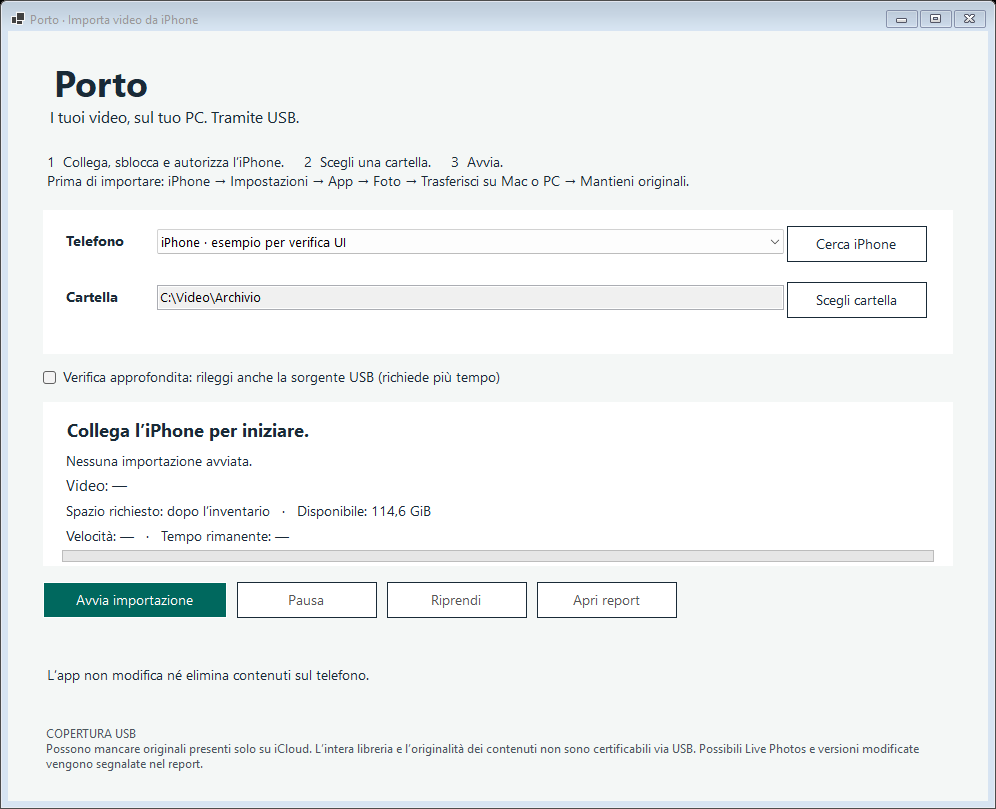
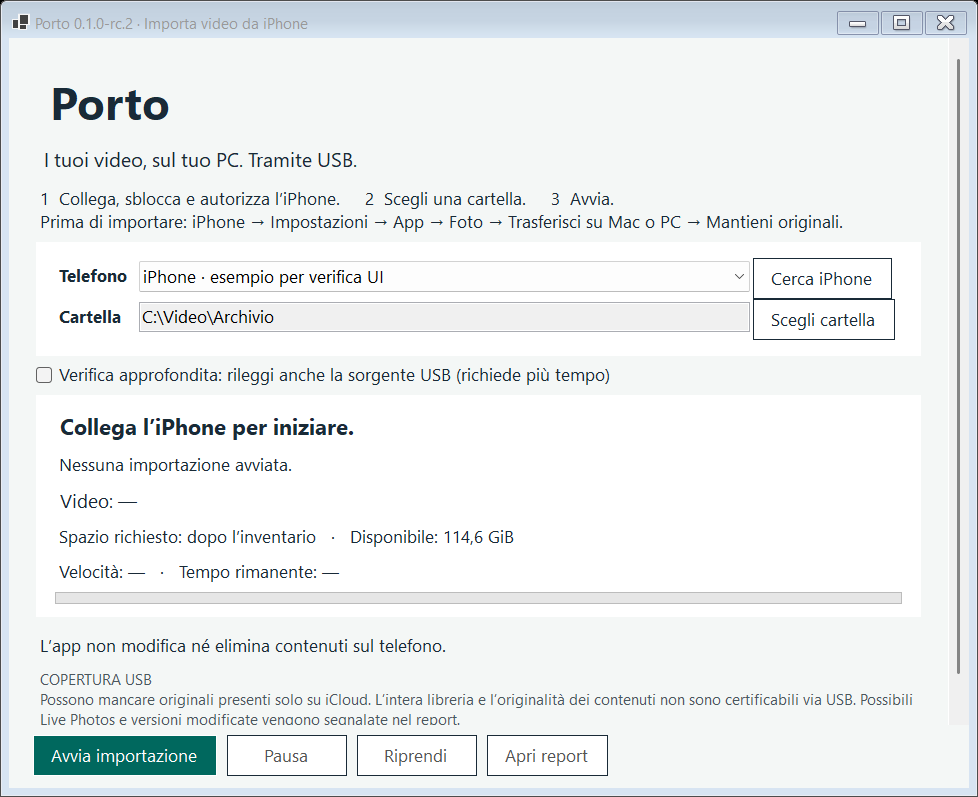
docs: publish rc2 behavior verification and honest hardware limits

diff --git a/docs/index.html b/docs/index.html
@@ -14,19 +14,19 @@
 <header><a class="brand" href="#" aria-label="Porto, inizio pagina"><svg viewBox="0 0 32 38" fill="none" aria-hidden="true"><path d="M5 4v25h22V4M16 0v22m-6-6 6 6 6-6" stroke="#00685e" stroke-width="3.5" stroke-linecap="round" stroke-linejoin="round"/></svg>Porto</a><nav aria-label="Navigazione"><a href="#come">Come si usa</a><a href="https://github.com/9gabri/porto-iphone-usb">Codice sorgente</a></nav></header>
 <main id="contenuto">
 <section class="hero" aria-labelledby="titolo"><div><h1 id="titolo">Dall’iPhone al PC.<br>Con un cavo.</h1><p class="intro">Importa i video accessibili via USB in una cartella Windows. Una sola importazione, senza selezionare lotti.</p>
-<a class="download" href="https://github.com/9gabri/porto-iphone-usb/releases/download/v0.1.0-rc.1/Porto-0.1.0-rc.1-win-x64.zip"><svg viewBox="0 0 24 24" fill="none" stroke="currentColor" stroke-width="2" aria-hidden="true"><path d="M12 3v12m-5-5 5 5 5-5M4 16v5h16v-5"/></svg>Scarica Porto per Windows</a>
-<p class="version">Versione candidata 0.1.0-rc.1 per Windows 11 x64.<br>Archivio ZIP con runtime incluso. Gratuito, senza account nell’app.</p>
-<p class="meta"><a href="https://github.com/9gabri/porto-iphone-usb/releases/download/v0.1.0-rc.1/SHA256SUMS.txt">Checksum SHA-256</a> &nbsp; / &nbsp; <a href="https://github.com/9gabri/porto-iphone-usb/releases/tag/v0.1.0-rc.1">Note della release</a></p></div>
+<a class="download" href="https://github.com/9gabri/porto-iphone-usb/releases/download/v0.1.0-rc.2/Porto-0.1.0-rc.2-win-x64.zip"><svg viewBox="0 0 24 24" fill="none" stroke="currentColor" stroke-width="2" aria-hidden="true"><path d="M12 3v12m-5-5 5 5 5-5M4 16v5h16v-5"/></svg>Scarica Porto per Windows</a>
+<p class="version">Versione candidata 0.1.0-rc.2 per Windows 11 x64.<br>Archivio ZIP con runtime incluso. Gratuito, senza account nell’app.</p>
+<p class="meta"><a href="https://github.com/9gabri/porto-iphone-usb/releases/download/v0.1.0-rc.2/SHA256SUMS.txt">Checksum SHA-256</a> &nbsp; / &nbsp; <a href="https://github.com/9gabri/porto-iphone-usb/releases/tag/v0.1.0-rc.2">Note della release</a></p></div>
 <figure class="preview"><img src="app-preview.png" width="996" height="809" alt="Finestra italiana di Porto con scelta telefono e cartella, avanzamento e pulsanti Avvia, Pausa e Riprendi"><figcaption>L’app Windows compilata, aperta in modalità di verifica. Dati illustrativi: nessun telefono è stato collegato durante i test.</figcaption></figure></section>
 <aside class="notice"><p><strong>Candidata da provare: hardware iPhone non ancora validato.</strong> Il collegamento USB è implementato tramite WPD, ma non sono stati provati iPhone reali, versioni iOS o trasferimenti fisici da 250 GB. Porto non certifica che l’intera libreria sia stata salvata.</p></aside>
 <section class="guide" id="come"><div><h2>Tre passaggi<br>per iniziare.</h2><p class="small">Non servono strumenti di sviluppo. Il sito presenta l’app; il trasferimento avviene sul tuo PC.</p></div><ol><li><strong>Estrai lo ZIP e apri Porto.exe.</strong>Tieni tutti i file estratti nella stessa cartella. L’app non richiede privilegi amministrativi.</li><li><strong>Collega, sblocca e autorizza l’iPhone.</strong>Verifica “Mantieni originali” in Impostazioni → App → Foto → Trasferisci su Mac o PC. Se mancano i componenti USB, segui le <a href="https://support.apple.com/en-us/120267">istruzioni ufficiali Apple</a> per Dispositivi Apple.</li><li><strong>Scegli una cartella NTFS e premi Avvia importazione.</strong>Prima viene letto l’inventario, poi parte la copia. Puoi mettere in pausa e riprendere. Alla fine trovi il report nella cartella scelta.</li></ol></section>
-<section class="details"><div><h2>Una copia controllata.</h2><ul><li>Byte ricevuti conservati senza conversioni o ricompressioni.</li><li>SHA-256 confrontato con una rilettura del file salvato.</li><li>Verifica approfondita opzionale tramite seconda lettura USB.</li><li>Ripresa con confronto del contenuto, preservando i duplicati distinti dell’inventario.</li><li>Nessuna modifica o cancellazione sul telefono e nessuna sovrascrittura di video esistenti.</li></ul></div><div><h2>Un report sincero.</h2><p>Importati, già presenti verificati, esclusi, ambigui, mancanti noti ed errori. Disponibile come testo e JSON, tutto locale.</p><p>“Completati tutti i video individuati tramite USB” riguarda l’inventario accessibile. <strong>La copertura dell’intera libreria iCloud non è verificabile.</strong></p></div></section>
+<section class="details"><div><h2>Una copia controllata.</h2><ul><li>Byte ricevuti conservati senza conversioni o ricompressioni.</li><li>SHA-256 confrontato con una rilettura del file salvato.</li><li>Verifica approfondita opzionale tramite seconda lettura USB.</li><li>Ripresa con confronto del contenuto, preservando i duplicati distinti dell’inventario.</li><li>Nessuna modifica o cancellazione sul telefono e nessuna sovrascrittura di video esistenti.</li></ul></div><div><h2>Un report sincero.</h2><p>Importati, già presenti verificati, esclusi, ambigui, mancanti noti, errori e video ancora da completare. Un controllo finale verifica che l’inventario USB sia rimasto stabile. Disponibile come testo e JSON, tutto locale.</p><p>“Completati tutti i video individuati tramite USB” riguarda l’inventario accessibile. <strong>La copertura dell’intera libreria iCloud non è verificabile.</strong></p></div></section>
 <section aria-label="Limiti e domande frequenti">
 <details open><summary>Originali, Live Photos e video modificati</summary><p>“Mantieni originali” evita le conversioni di formato. La verifica dei byte non certifica che la risorsa USB sia l’originale Foto non modificato. Fotografie escluse; possibili componenti Live Photo e varianti riconoscibili come modificate vengono segnalate come ambigue e non pubblicate tra i video autonomi. Senza metadati distintivi non è possibile riconoscere ogni caso.</p></details>
 <details><summary>iCloud, Internet e privacy</summary><p>Porto funziona offline, non chiede Apple ID e non carica video online. Non scarica originali da iCloud né cambia impostazioni. Un originale solo cloud può non comparire nell’inventario, e il numero degli elementi mancanti potrebbe non essere disponibile.</p></details>
 <details><summary>Compatibilità, firma e componenti necessari</summary><p>Destinazione Windows 11 x64 e cartella locale NTFS. Windows ARM, exFAT, rete e percorsi reindirizzati non supportati in questa candidata. Eventuali componenti Apple vanno ottenuti dalle fonti ufficiali. Eseguibile non firmato: le protezioni Windows possono mostrare avvisi o impedirne l’avvio. Non disattivare antivirus, SmartScreen o altre protezioni.</p></details>
-<details><summary>Spazio, ripresa e file temporanei</summary><p>Le copie interrotte vengono ricominciate dall’inizio e i relativi temporanei sono conservati, quindi possono richiedere spazio aggiuntivo. Gli elementi ambigui già verificati vengono riutilizzati. Conserva la cartella .porto insieme ai video: contiene il catalogo necessario per evitare duplicati alle riprese. Usa una destinazione distinta per ogni libreria/telefono.</p></details>
+<details><summary>Spazio, ripresa e file temporanei</summary><p>I temporanei associabili vengono confrontati con la sorgente e completati aggiungendo solo la parte mancante. Quelli divergenti o non associabili sono conservati e possono richiedere spazio aggiuntivo. Fino a tre passaggi automatici con attese cancellabili; gli errori permanenti restano nel report. Gli elementi ambigui già verificati vengono riutilizzati. Conserva la cartella .porto insieme ai video: contiene il catalogo necessario per evitare duplicati alle riprese. Usa una destinazione distinta per ogni libreria/telefono.</p></details>
 </section>
-<section class="test-note" aria-labelledby="test"><h2 id="test">Che cosa è stato verificato</h2><p>Compilazione e avvio UI su Windows 11 x64; copie sintetiche con corruzione, disconnessione, collisioni, arresti nei passaggi critici e recupero. Flusso sintetico oltre 4 GiB effettivamente letto e sottoposto a hash; inventario di 50.000 elementi con 250 GB logici, senza scrivere quel volume su disco.</p><p class="small"><a href="https://github.com/9gabri/porto-iphone-usb/blob/main/docs/TESTS.md">Risultati e limiti delle prove</a> · <a href="https://github.com/9gabri/porto-iphone-usb/blob/main/THIRD-PARTY-NOTICES.md">Licenze e dipendenze</a></p></section>
+<section class="test-note" aria-labelledby="test"><h2 id="test">Che cosa è stato verificato</h2><p>Compilazione e avvio UI su Windows 11 x64; copie sintetiche con corruzione, disconnessione, collisioni, arresti nei passaggi critici e recupero. 74 casi sintetici verificati. Inventario di 50.000 elementi, 2.000 copie effettive con secondo passaggio senza duplicati e un file sintetico oltre 4 GB scritto e riletto su NTFS. Simulazione di 250 GB logici, senza scrivere quel volume su disco.</p><p class="small"><a href="https://github.com/9gabri/porto-iphone-usb/blob/main/docs/TESTS.md">Risultati e limiti delle prove</a> · <a href="https://github.com/9gabri/porto-iphone-usb/blob/main/THIRD-PARTY-NOTICES.md">Licenze e dipendenze</a></p></section>
 </main><footer>Porto è un progetto indipendente, non affiliato ad Apple o Microsoft. Codice MIT. Nessun tracker aggiunto a questa pagina; l’hosting segue le informative di GitHub Pages.</footer>
 </body></html>

diff --git a/docs/TESTS.md b/docs/TESTS.md
@@ -1,40 +1,81 @@
-# Prove della candidata 0.1.0-rc.1
+# Prove della candidata 0.1.0-rc.2
 
-Ambiente: Windows 11 x64, build OS 26200; .NET SDK 10.0.403, runtime Microsoft 10.0.14; destinazione sintetica locale NTFS. Nessun iPhone è stato cercato, aperto o usato durante lo sviluppo. Nessun file personale è stato letto. Data: 30 ottobre 2026.
+Windows 11 x64, .NET SDK 10.0.403 e runtime Microsoft 10.0.14; destinazioni locali NTFS.
+Dati generati nel progetto. Nessun iPhone enumerato, aperto o letto durante lo sviluppo.
+Nessun video o dato personale incluso nei test.
 
-## Prove automatiche
+## Risultati
 
-**Esito finale: 44/44 test superati**, più avvio UI e smoke del worker sull'eseguibile self-contained. I test includono anche riparazioni interrotte con perdita o corruzione del nuovo temporaneo, senza duplicare i mancanti logici.
+**74 casi verificati: 70 ordinari e 4 estesi**, eseguiti in passaggi separati.
+La suite estesa iniziale era 72/72; aggiunti due casi di crash con inventario vuoto,
+sono stati rieseguiti tutti i 70 ordinari dopo l'ultima correzione del protocollo.
+Le quattro prove di scala esercitano il medesimo core. Log in test-results.txt.
+Comando riproducibile: scripts/dev.ps1 test -Large.
 
-La suite console non richiede pacchetti di test esterni. `scripts/dev.ps1 test` compila ed esegue i test ordinari. `dotnet run --project tests/Porto.Tests -c Release -- --large` aggiunge le prove di scala. Esito dettagliato in [test-results.txt](test-results.txt).
+Coperti: SHA-256 e rilettura locale, troncamento, dimensione incoerente, corruzione,
+seconda lettura divergente, collisioni, percorsi ostili, lock concorrenti, foto
+abbinate/Live Photos ambigue, copie mancanti o alterate, disco pieno, inventari
+parziali, errori isolati, disconnessioni, tentativi limitati, cancellazione,
+inventario finale cambiato, ID variabili e molteplicità degli elementi byte-identici.
 
-Coperti: SHA-256 e rilettura, sorgente troncata/estesa, cancellazione, SQLite reale, cambiamento degli ID, molteplicità di tre video identici, nomi collisionanti, copie rimosse o corrotte, seconda lettura USB differente, spazio iniziale insufficiente e riempimento durante copia, disconnessione/riconnessione, percorsi ostili, lock concorrente, Live Photo/varianti ambigue, foto abbinate, MOV/MP4/M4V, finta estensione senza video, inventario incompleto e mancante offline sintetico.
+Il test di molteplicità riproduce una pausa dopo che B ha reclamato la copia di A,
+quando A è ancora nell'inventario corrente. Un successivo elenco ridotto non può
+cancellare l'obbligo di conservare la seconda copia.
 
-Arresti **reali del processo di test** tramite Environment.Exit prima/dopo sei confini: intento, flush, verifica, Ready, rinomina, Complete. Nuovo processo recupera senza duplicati definitivi. Inoltre: collisione del finale dopo Ready, temporaneo danneggiato, quarantena riutilizzata senza creare nuovi `.part`, inventario ripetitivo/fallito limitato.
+## Arresti e recupero
 
-Worker: processi sintetici bloccati prima della risposta e a metà payload; timeout e cancellazione devono terminarli. COM smoke: creazione degli oggetti WPD, scambio proprietà locali stringa, GUID e UInt64 oltre 4 GiB. **Questa prova non chiama GetDevices o Open** e non dimostra una connessione a iPhone.
+Terminazioni reali di processi sintetici con Exit(77) ai confini intento, flush,
+verifica, Ready, rename e Complete. Riparazioni interrotte e collisioni preservano
+i file esistenti. Dopo un crash, un inventario vuoto conserva i lavori pendenti,
+anche se il file era pubblicato ma il risultato non ancora registrato: segnalazione
+conservativa, non falso completamento.
 
-## Dimensioni effettive e simulate
+Ripresa provata con letture corte/disallineate, divergenza all'ultimo byte, sorgente
+più corta, cancellazione prima dell'append, interruzioni ripetute e spazio sufficiente
+solo al suffisso. File estranei intatti. Nessuna cancellazione in produzione.
 
-| Prova | Cosa viene eseguito | Cosa non dimostra |
+## USB senza dispositivi reali
+
+- Vtable native sintetiche: vero percorso GetDevices, S_OK, S_FALSE, errore dopo
+  allocazione, deallocazione e stringhe senza terminatore nel testo UI.
+- Inventario nativo simulato: heartbeat tra metadati e conclusione al batch S_FALSE.
+- Processi figli reali: timeout, payload parziale, cancellazione, heartbeat oltre
+  il timeout, JSON nullo/malformato, frame inattesi e progressi corrotti.
+- Il test dei progressi malformati invia poi un risultato valido: deve fallire
+  immediatamente, non passare accidentalmente alla chiusura del processo.
+- COM smoke: registrazione, GUID, stringhe e UInt64 oltre 4 GB. Gli smoke del
+  pacchetto non invocano GetDevices/Open su hardware.
+
+## Prove di scala
+
+| Prova | Operazione reale | Limite |
 |---|---|---|
-| Copie ordinarie | File sintetici piccoli realmente scritti, riletti e pubblicati su NTFS | Video reali, decodifica o USB fisica |
-| Flusso oltre 4 GiB | 4.294.967.313 byte generati, letti e sottoposti a SHA-256; output Stream.Null | Un file oltre 4 GiB scritto su disco o trasferito da iPhone |
-| 50.000 elementi, 250 GB | Inventario completo sintetico serializzato, classificazione e controllo di capacità; payload non scritto | Trasferimento reale di 250 GB |
-| Crash recovery | Terminazione processo ai confini e riavvio reale | Perdita di alimentazione, guasto controller/disco o corruzione del filesystem |
+| 4.294.967.313 byte | Generati, letti e sottoposti a SHA-256 verso Stream.Null | Nessun USB/disco |
+| 50.000 video, 250 GB logici | Inventario, pendenti, capacità insufficiente, report | Nessun payload da 250 GB scritto |
+| 50.000 elementi, 2.000 video | 2.000 file scritti/verificati, 48.000 foto escluse; secondo passaggio senza copie aggiuntive | File piccoli sintetici |
+| 4.294.971.392 byte su NTFS | Contenitore esteso, copia, flush, hash indipendente, parser e pubblicazione | Nessun codec, video reale o USB |
 
-I tempi e il working set osservati sono nel log; non sono benchmark USB. Nella prima prova estesa il flusso oltre 4 GiB ha richiesto circa 2,7 secondi con working set 54 MiB; l'inventario circa 0,13 secondi con working set 69 MiB. Sono misure su questo ambiente, non promesse di prestazioni.
+Misure: flusso virtuale 2,25 s; inventario logico 1,03 s; 2.000 copie e secondo
+passaggio 214,05 s; file NTFS oltre 4 GB 8,72 s. Working set campionato: 79, 210,
+158 e 110 MiB, non una misura del picco. Non sono benchmark USB. Il solo payload
+sintetico da 4 GB viene rimosso dopo la verifica, in una destinazione nuova dedicata.
 
-## Revisione e artefatto
+## Revisione, mutazione e interfaccia
 
-Revisione indipendente di correttezza/sicurezza del core e dell'ABI USB, confrontata con gli header Microsoft. Corrette le criticità emerse: errori InvalidDataException non classificati, recovery bloccata su collisione/corruzione, falsi positivi Live Photo, riscrittura quadratica dei report, duplicazione dei temporanei ambigui e limite inventario aggirabile. Il report ora persiste risultati incrementali.
+Due revisioni indipendenti: core e USB, seguite da correzioni e seconda revisione.
+Dettagli in REVIEW-RC2.md. Mutazione temporanea del confronto del prefisso: la
+regressione fallisce; codice ripristinato prima della build finale. Nessun codice
+mutato distribuito.
 
-Prova di mutazione: inversione temporanea del confronto d'integrità, suite attesa in errore, poi ripristino del codice e nuova esecuzione corretta. Nessun codice mutato distribuito.
+Pacchetto autonomo avviato in modalità UI senza USB; ispezione visiva normale e
+ridotta con messaggio lungo di riconnessione. Azioni ancorate al fondo e controllo
+automatico dei loro limiti visibili. Non certifica ogni risoluzione/DPI o tutte
+le interazioni manuali.
 
-Avvio effettivo della UI compilata in `--ui-smoke` senza USB e ispezione della sua immagine. Avvio della distribuzione self-contained con runtime di sistema .NET 10 non installato. Smoke `--interop-smoke` e `--worker-smoke` sul vero eseguibile verificano anche l'avvio del processo figlio, il protocollo e l'appartamento COM MTA, senza enumerazione dispositivi. Queste prove hanno rilevato e fatto correggere una inizializzazione COM STA/MTA incompatibile nell'entry point. La prova UI verifica l'avvio, non un trasferimento fisico né tutte le interazioni tramite mouse.
+## Da verificare con hardware
 
-L'archivio pubblico viene riscaricato e confrontato tramite SHA-256 con l'archivio locale. Questo verifica la corrispondenza dell'artefatto, non sostituisce una firma Authenticode. L'eseguibile Porto è non firmato.
-
-## Compatibilità non verificata
-
-iPhone 16/17, qualsiasi versione iOS, driver Apple effettivi, velocità dei cavi USB, originali solo iCloud, comportamento delle risorse modificate, riconoscimento completo di Live Photos. Nessuna verifica Windows ARM, exFAT o cartelle di rete (rifiutati nella candidata). Nessun trasferimento fisico da 250 GB. Il sito e l'app riportano questi limiti prima/durante l'uso.
+Riconoscimento di uno specifico iPhone/iOS, driver Apple, cavo, autorizzazione,
+risorse effettive e velocità USB. La causa della lista vuota della prima prova
+non è dimostrata. Nessun trasferimento reale da 250 GB. Copertura iCloud,
+originalità Foto e Live Photos prive di indizi non certificabili. Rete, exFAT
+e ARM restano rifiutati. Eseguibile non firmato.

diff --git a/README.md b/README.md
@@ -1,8 +1,8 @@
 # Porto
 
-App locale italiana per importare via USB i video accessibili di un iPhone su Windows 11 x64. Versione **0.1.0-rc.1**, candidata sperimentale: il collegamento WPD è reale, ma **nessun iPhone fisico è stato utilizzato per validarla**.
+App locale italiana per importare via USB i video accessibili di un iPhone su Windows 11 x64. Versione **0.1.0-rc.2**, candidata sperimentale: il collegamento WPD è reale, ma **nessun iPhone fisico è stato utilizzato per validarla**.
 
-[Pagina e istruzioni](https://9gabri.github.io/porto-iphone-usb/) · [Download Windows](https://github.com/9gabri/porto-iphone-usb/releases/download/v0.1.0-rc.1/Porto-0.1.0-rc.1-win-x64.zip) · [Checksum SHA-256](https://github.com/9gabri/porto-iphone-usb/releases/download/v0.1.0-rc.1/SHA256SUMS.txt)
+[Pagina e istruzioni](https://9gabri.github.io/porto-iphone-usb/) · [Download Windows](https://github.com/9gabri/porto-iphone-usb/releases/download/v0.1.0-rc.2/Porto-0.1.0-rc.2-win-x64.zip) · [Checksum SHA-256](https://github.com/9gabri/porto-iphone-usb/releases/download/v0.1.0-rc.2/SHA256SUMS.txt)
 
 ## Provala
 
@@ -10,7 +10,13 @@ App locale italiana per importare via USB i video accessibili di un iPhone su Wi
 2. Collega l'iPhone via USB, sbloccalo e autorizza il PC. Apple indica l'app ufficiale **Dispositivi Apple** come prerequisito Windows: se mancano i relativi componenti, installala dal Microsoft Store seguendo [Apple](https://support.apple.com/en-us/120267). Porto non installa driver.
 3. Sul telefono verifica **Impostazioni → App → Foto → Trasferisci su Mac o PC → Mantieni originali**. Scegli una cartella locale NTFS e premi **Avvia importazione**.
 
-L'app inventaria prima di copiare e non richiede selezioni di file o lotti. **Pausa** interrompe in sicurezza. **Riprendi** esegue un nuovo inventario e confronta i contenuti già copiati. Un file interrotto viene ricopiato dall'inizio. Se il telefono non compare dopo una riconnessione, premi **Cerca iPhone**.
+L'app inventaria prima di copiare e non richiede selezioni di file o lotti. **Pausa** interrompe anche l'attesa di riconnessione. **Riprendi** esegue un nuovo inventario e confronta i contenuti già copiati. Un temporaneo appartenente allo stesso elemento viene confrontato integralmente con il prefisso USB: solo se coincide viene aggiunta la parte mancante. Nessun byte esistente viene sovrascritto o troncato. Se non è associabile o diverge, viene conservato e si prepara una nuova copia.
+
+Gli errori di singoli video lasciano proseguire gli altri. Errori di connessione o inventario attivano fino a **tre passaggi automatici**, con attese cancellabili di 15 secondi. Ogni passaggio usa un collegamento nuovo allo stesso dispositivo. Disco pieno o permessi insufficienti sulla destinazione richiedono una pausa. Gli errori permanenti restano nel report: nessun retry infinito.
+
+Al termine viene riletto l'inventario USB: se cambia o rimane incompleto, il risultato non è dichiarato completo. Le osservazioni precedenti ancora pendenti restano visibili. Se gli identificatori cambiano prima che un contenuto sia verificato, può restare un debito storico non riconciliabile: non viene cancellato per ottenere un risultato verde. Il confronto non è uno snapshot atomico della libreria Foto.
+
+Se il telefono non compare, **Cerca iPhone** distingue nessun dispositivo portatile esposto da Windows, nessun dispositivo identificato Apple e metadati non leggibili. Verifica prima il riconoscimento in **Dispositivi Apple**. Una lista vuota può richiedere ulteriore diagnosi di Porto/driver.
 
 Il pacchetto non è firmato con un certificato commerciale: Windows può mostrare un avviso o impedirne l'avvio secondo le proprie policy. Non disattivare SmartScreen, antivirus o altre protezioni. La riproduzione HEVC dipende dai codec disponibili sul PC; la copia non richiede decoder o acquisti.
 
@@ -22,7 +28,9 @@ Il pacchetto non è firmato con un certificato commerciale: Windows può mostrar
 - SHA-256 calcolato sui byte ricevuti e confrontato con la rilettura locale. La verifica approfondita ripete anche la lettura USB e richiede più tempo; se fallisce, il nuovo file non viene pubblicato.
 - Identificatori USB, nome, data e dimensioni **non bastano** per saltare un file. Il confronto è sul contenuto completo, mantenendo la molteplicità degli elementi identici dell'inventario. Le importazioni ripetute rileggono quindi la sorgente.
 
-Nessuna funzione di cancellazione, modifica, rinomina o sincronizzazione sull'iPhone. Nessuna cancellazione automatica nella destinazione, neppure dei temporanei interrotti. Questi ultimi possono occupare spazio aggiuntivo dopo pause/errori; gli elementi ambigui già verificati vengono riutilizzati. Conserva `.porto` insieme ai video per mantenere la ripresa senza duplicati. Un catalogo perso o rimosso non può riconoscere automaticamente copie precedenti.
+Nessuna funzione di cancellazione, modifica, rinomina o sincronizzazione sull'iPhone. Nessuna cancellazione automatica nella destinazione, neppure dei temporanei interrotti. Temporanei divergenti o non associabili possono occupare spazio aggiuntivo; quelli associabili vengono ripresi dopo confronto e gli ambigui verificati vengono riutilizzati. Conserva `.porto` insieme ai video per mantenere la ripresa senza duplicati. Un catalogo perso o rimosso non può riconoscere automaticamente copie precedenti.
+
+La cartella scelta viene ricordata in `%LOCALAPPDATA%\Porto\destination.txt`, solo sul PC. Durante il trasferimento Porto richiede a Windows di evitare la sospensione per inattività; non impedisce blocco schermo, sospensione manuale o chiusura del coperchio. I pulsanti restano visibili ridimensionando la finestra; il contenuto può scorrere.
 
 ## Limiti da conoscere prima della prova
 

diff --git a/docs/ARCHITECTURE.md b/docs/ARCHITECTURE.md
@@ -4,7 +4,9 @@
 
 Il processo UI usa WinForms e avvia un processo figlio dello stesso eseguibile con `--usb-worker`, stdin/stdout reindirizzati. Solo questo processo tocca WPD. COM in MTA, PortableDeviceFTM, `WPD_CLIENT_DESIRED_ACCESS=GENERIC_READ`, `GetStream(WPD_RESOURCE_DEFAULT, STGM_READ)`. Non esistono chiamate a Delete, SetValues, CreateObject, Write o comandi generici sul dispositivo. I setter Values preparano soltanto la struttura locale delle informazioni client.
 
-Il worker risponde a un insieme chiuso di comandi: elenco, connessione, inventario, apertura, lettura, chiusura. Nessun comando shell o rete. Timeout di inattività per frame di 60 secondi; i batch di inventario rinnovano il timer. Pausa/timeout terminano solo il figlio creato dall'app. Non si tenta di uccidere processi Apple o di sistema. Un tentativo per esecuzione, nessun ciclo illimitato di riconnessioni. Riprendi è un nuovo tentativo esplicito.
+Il worker risponde a un insieme chiuso di comandi: elenco/diagnosi, connessione, inventario, apertura, lettura, chiusura. Nessun comando shell o rete. Timeout di inattività per frame di 60 secondi; progressi tra i singoli oggetti rinnovano il timer, con emissione limitata a circa 4/s. Pausa/timeout terminano solo il figlio creato dall'app. Nessun arresto di processi Apple o di sistema. Fino a tre passaggi con 15 secondi d'attesa cancellabile; worker nuovi solo per lo stesso ID di dispositivo. Errori isolati proseguono con gli altri file; connessione indisponibile, disco pieno e accesso negato sospendono il passaggio.
+
+GetDevices S_FALSE indica inventario troncato: tre tentativi limitati, poi errore, mai una lista completa silenziosamente. La diagnosi distingue zero dispositivi WPD, dispositivi non Apple e metadati insufficienti. Firme native, HRESULT, deallocazione e heartbeat sono provati anche con vtable COM sintetiche.
 
 Inventario massimo un milione di oggetti tentati, profondità 128, 10.000 errori; ID vuoti/ripetuti interrompono l'inventario con esito incompleto. Proprietà non leggibili e tipi non esplorati sono errori registrati, non successi silenziosi. Il driver iPhone non viene considerato equivalente a un Android MTP.
 
@@ -14,7 +16,7 @@ La destinazione contiene un lock con FileShare.None. SQLite di Windows usa journ
 
 `Copying → Ready → Complete`, oppure `Quarantined`, `Missing`, `Damaged`. Le riparazioni collegano l'intento alla copia mancante con `Replaces`: nuova copia e risoluzione `Replaced` si salvano nella stessa transazione. Un tentativo di riparazione perso o corrotto diventa `Abandoned`, conservando un solo elemento logico da recuperare.
 
-1. Registra intento Copying; crea un nuovo `.part` con CreateNew nello stesso volume.
+1. Registra intento Copying; crea un nuovo `.part` con CreateNew nello stesso volume oppure riapre esclusivamente un temporaneo Copying appartenente al catalogo. Legge USB dall'inizio e confronta ogni byte esistente sotto lock prima dell'append. Nessun troncamento o riscrittura del prefisso. Divergenze conservano il temporaneo come Abandoned; il nuovo tentativo è separato.
 2. Copia a buffer 1 MiB, SHA-256, contatori Int64. Controllo spazio prima di ogni lettura/scrittura, riserva 64 MiB e controllo preventivo dei volumi noti.
 3. Flush(true), chiusura, hash di rilettura locale. Confronto dimensioni quando dichiarate; discrepanze causano pausa anche se il driver ha fornito una dimensione sbagliata.
 4. Verifica sorgente opzionale e classificazione contenitore. Il parser non decodifica i frame; controlla limiti degli atom, traccia `vide`, `moov` e `mdat`, con limiti a profondità, numero di atom e metadati.
@@ -25,6 +27,10 @@ Rinomina e catalogo non sono un'unica transazione. Alla ripresa, Ready verifica 
 Le garanzie dipendono dal filesystem e dal dispositivo di archiviazione che rispettano flush/atomicità. Non è stata simulata una reale perdita di alimentazione o corruzione del volume. Non è una difesa contro un processo locale ostile che alteri la destinazione durante l'importazione. Il catalogo non deve essere modificato manualmente.
 
 ## Identità e molteplicità
+
+`work.db` registra transazionalmente tutti i candidati prima della copia, con esiti Pending, Missing, Ambiguous ed Error che sopravvivono ai passaggi. Migrazione conservativa di Copying/Quarantined da rc.1. Una chiave descrittiva serve alla contabilità, mai a saltare il confronto dei contenuti. ID cambiati prima della verifica possono lasciare debito storico esplicito. Una copia verificata reclamata viene associata al descrittore corrente prima della riconciliazione: non si cancella il debito di un altro elemento presente nello stesso inventario. Nessun vero originale Foto viene certificato da questa contabilità.
+
+Due inventari sono confrontati indipendentemente dall'ordine, includendo la molteplicità. Un secondo inventario diverso o con errori provoca un altro passaggio limitato, senza dichiarare il lavoro completo. Non è uno snapshot atomico del telefono. Le copie con la stessa dimensione non causano una lettura USB preventiva quando non ci sono più copie locali reclamabili. Riconciliazione e riparazione usano code per hash/lunghezza, senza ricerche quadratiche per video identici.
 
 Gli ID WPD non sono chiavi sufficienti per la deduplicazione. Per possibili copie precedenti, si legge tutta la sorgente, si confrontano SHA-256 e lunghezza e si verifica la copia locale. Ogni record può essere reclamato una sola volta per inventario; nuove copie sono immediatamente reclamate. Tre elementi identici nell'inventario producono tre file, non uno. Il confronto considera anche temporanei ambigui già verificati, per non moltiplicarli alle riprese.
 

diff --git a/docs/RELEASE.md b/docs/RELEASE.md
@@ -1,15 +1,28 @@
-# Porto 0.1.0-rc.1
+# Porto 0.1.0-rc.2
 
-Candidata Windows 11 x64 per importare video da iPhone tramite USB WPD in sola lettura. ZIP pronto con runtime Microsoft 10.0.14 incluso: estrarre tutta la cartella e avviare Porto.exe. Nessun compilatore richiesto.
+Candidata Windows 11 x64 per copiare in massa i video accessibili dell'iPhone via USB.
+Archivio pronto con runtime incluso: estrarre tutta la cartella e aprire Porto.exe.
 
-Collega e autorizza l'iPhone, verifica “Mantieni originali”, scegli una cartella locale NTFS e premi Avvia importazione. Gli eventuali componenti ufficiali Dispositivi Apple non vengono installati automaticamente.
+Recupero automatico fino a tre passaggi, prosecuzione oltre errori isolati, ripresa
+dei temporanei tramite confronto e append, registro persistente dei video pendenti
+e confronto finale dell'inventario. Diagnosi del telefono non rilevato e pulsanti
+sempre visibili nelle finestre ridotte.
 
-Copia con SHA-256 e rilettura locale, seconda lettura USB opzionale, pausa/ripresa, recupero transazionale e report TXT/JSON. Nessuna cancellazione automatica, conversione o upload. Eseguibile non firmato; non disabilitare protezioni Windows.
+74 casi sintetici verificati (70 ordinari e 4 estesi), revisioni indipendenti,
+2.000 copie effettive con secondo passaggio senza duplicati, 50.000 elementi e un
+file oltre 4 GB realmente scritto e riletto su NTFS. Smoke UI, COM e worker del
+pacchetto senza enumerare hardware. Nessun accesso a file personali.
 
-Verificati: 44 test sintetici, inclusi crash di processo, collisioni, corruzione, mancanti, timeout; flusso oltre 4 GiB e inventario logico 50.000 elementi/250 GB. Avvio reale del pacchetto UI, COM e worker senza enumerare dispositivi.
+**Rimane una candidata da provare: nessun trasferimento con iPhone reale validato.**
+Non garantisce zero bug né copia degli originali presenti soltanto su iCloud.
+Nessuna modifica al telefono, cancellazione automatica, conversione o upload.
+Eseguibile non firmato; non richiede di disattivare antivirus o altre protezioni.
 
-**Non verificati: iPhone reali, versioni iOS o trasferimenti fisici da 250 GB.** Originalità delle risorse USB, associazioni Live Photo prive di indizi e intera libreria iCloud non certificabili. Rete, exFAT e Windows ARM non supportati nella candidata. Una destinazione per libreria/telefono.
+Per aggiornare: chiudere rc.1, estrarre rc.2 in una cartella nuova, scegliere la
+stessa destinazione conservando .porto. Non mescolare i file dei due pacchetti.
+Una destinazione per telefono/libreria; locale NTFS.
 
-[Istruzioni](https://9gabri.github.io/porto-iphone-usb/) · [Risultati dei test](https://github.com/9gabri/porto-iphone-usb/blob/v0.1.0-rc.1/docs/TESTS.md) · [Licenze](https://github.com/9gabri/porto-iphone-usb/blob/v0.1.0-rc.1/THIRD-PARTY-NOTICES.md)
+[Istruzioni](https://9gabri.github.io/porto-iphone-usb/) · [Prove e limiti](https://github.com/9gabri/porto-iphone-usb/blob/v0.1.0-rc.2/docs/TESTS.md) · [Revisione](https://github.com/9gabri/porto-iphone-usb/blob/v0.1.0-rc.2/docs/REVIEW-RC2.md)
 
-Scarica lo ZIP Windows e SHA256SUMS.txt dagli allegati. Il sorgente corrisponde al tag v0.1.0-rc.1. Non usare gli archivi “Source code” per installare l'app.
+Scaricare lo ZIP Windows e SHA256SUMS.txt dagli allegati della release.
+Gli archivi Source code sono per sviluppatori.

diff --git a/docs/REVIEW-RC2.md b/docs/REVIEW-RC2.md
@@ -1,0 +1,33 @@
+# Revisione rc.2
+
+Mandato operativo in `tasks/HARDENING-PROMPT.md`. Sviluppo e prove solo con dati
+generati nel progetto; nessuna enumerazione, connessione o lettura di iPhone reali.
+
+## Difetti riprodotti e correzioni
+
+| Difetto | Correzione | Evidenza |
+|---|---|---|
+| GetDevices S_FALSE accettato come elenco completo | Retry limitato e diagnosi | Vtable nativa sintetica, cleanup anche su HRESULT negativo |
+| 64 letture di metadati senza heartbeat | Progressi per oggetto, emissione limitata | Eventi tra letture native simulate e timeout reale di processo |
+| Primo video illeggibile arresta il lotto | Continuazione per file e stop su disconnessione | Tre video illeggibili seguiti da due sani |
+| Candidati mai raggiunti spariscono alla ripresa | Registro persistente Pending | Nuovo inventario vuoto dopo errore |
+| Copia di A reclamata da B cancella debito A | Aggiorna associazione fisica prima di riconciliare | Duplicati identici, pausa e inventario ridotto |
+| Nuovo `.part` per ogni interruzione | Confronto prefisso e append | Tre tentativi, un solo payload, file estraneo intatto |
+| Stessa dimensione causa letture inutili | Solo copie ancora reclamabili | Cinque video: cinque letture normali o dieci approfondite |
+| Frame anomalo lascia worker riutilizzabile | Chiusura worker su errore protocollo | JSON nullo/malformato, tipo errato e progressi malformati |
+| Inventario può cambiare durante la copia | Controllo finale e nuovo passaggio | Sorgente sintetica con nuovo video a fine giro |
+
+Due revisioni indipendenti, su core e USB, hanno esaminato correttezza, sicurezza,
+prestazioni e prove. I problemi bloccanti rilevati sono stati corretti con regressioni.
+Nessuna revisione statica o suite sintetica dimostra compatibilità con uno specifico
+iPhone/iOS o assenza assoluta di errori.
+
+## Confini intenzionali
+
+- Nessuna scrittura sulla sorgente; GENERIC_READ/STGM_READ invariati.
+- Nessun acquisto, firma a pagamento, nuovo servizio o accesso a dati personali.
+- Nessuna cancellazione automatica: temporanei non associabili o divergenti rimangono.
+- ID cambiati prima di verificare il contenuto possono lasciare un debito storico.
+- I due inventari non sono uno snapshot atomico e non includono necessariamente iCloud.
+- I test dei contenitori non decodificano i fotogrammi e non certificano originalità Foto.
+- Richiesta contro la sospensione solo per inattività; non modifica blocco schermo o protezioni.

diff --git a/CHANGELOG.md b/CHANGELOG.md
@@ -1,5 +1,27 @@
 # Novità
 
+## 0.1.0-rc.2 — revisione di affidabilità
+
+### Corretto
+- Ricerca USB: un elenco troncato non viene più accettato come completo; diagnosi distinta dei motivi di lista vuota.
+- Inventario: progressi per singolo elemento evitano falsi timeout su telefoni lenti ma ancora responsivi.
+- Errori di singoli video non impediscono la copia di quelli sani successivi.
+- Video non ancora raggiunti e ambiguità precedenti non spariscono dai report successivi.
+- Corretta la contabilità di elementi byte-identici dopo una pausa durante la riconciliazione.
+- Evitate letture USB preventive inutili e ricerche quadratiche sulle copie riparabili.
+
+### Aggiunto
+- Fino a tre passaggi automatici con 15 secondi d'attesa cancellabile e collegamento allo stesso telefono.
+- Ripresa con confronto integrale del prefisso e append, senza cancellare o sovrascrivere temporanei.
+- Secondo inventario a fine passaggio e registro persistente dei candidati ancora da completare.
+- Cartella ricordata localmente, richiesta temporanea contro la sospensione inattiva del PC e pulsanti sempre visibili.
+- Test nativi con COM simulato, errori di protocollo, tentativi automatici, scala e file oltre 4 GB realmente scritto.
+
+### Limiti
+Nessuna validazione di trasferimento con iPhone fisico. Nessuna promessa di zero bug o intera libreria iCloud copiata.
+La causa della lista vuota della prima prova non è dimostrata: il riconoscimento da parte di Windows era sconosciuto.
+Eseguibile non firmato. La vecchia candidata resta disponibile; estrarre rc.2 separatamente e conservare la destinazione con `.porto`.
+
 ## 0.1.0-rc.1 — 30 ottobre 2026
 
 Prima candidata Windows 11 x64. Importazione USB WPD in sola lettura, inventario, copia verificata, recupero dopo interruzioni, confronto contenuti con molteplicità, pausa/ripresa e report italiani. Distribuzione portabile con runtime incluso.

diff --git a/docs/SOURCES.md b/docs/SOURCES.md
@@ -16,4 +16,10 @@ Consultazione: 30 ottobre 2026. Nessun codice Rollport, AFC/libimobiledevice o D
 
 ## Inferenze e aspetti non dimostrati
 
+Verifiche aggiuntive rc.2:
+- [Microsoft GetDevices](https://learn.microsoft.com/en-us/windows/win32/api/portabledeviceapi/nf-portabledeviceapi-iportabledevicemanager-getdevices): S_FALSE indica buffer troncato; count indica gli elementi scritti; CoTaskMemFree per gli identificatori.
+- [Microsoft IEnumPortableDeviceObjectIDs.Next](https://learn.microsoft.com/en-us/windows/win32/api/portabledeviceapi/nf-portabledeviceapi-ienumportabledeviceobjectids-next): elaborare il batch finale e poi terminare su S_FALSE.
+- [Microsoft SetThreadExecutionState](https://learn.microsoft.com/en-us/windows/win32/api/winbase/nf-winbase-setthreadexecutionstate): richiesta ES_CONTINUOUS | ES_SYSTEM_REQUIRED per sospensione inattiva, ripristinata alla fine sullo stesso thread. Non impedisce sospensione manuale o blocco schermo.
+- [Apple accessori USB](https://support.apple.com/en-in/111806): sblocco prima del collegamento e riconnessione se necessario; non viene modificata l'impostazione di sicurezza degli accessori.
+
 WPD è la scelta minima per utilizzare lo stack già presente su Windows. La presenza di un'interfaccia e la correttezza ABI non dimostrano compatibilità con uno specifico iPhone o iOS. Originalità, associazione a Live Photo, risorse modificate e quantità degli originali solo cloud non sono certificabili con i soli dati generici usati qui. Per questo la UI non dichiara mai la libreria intera verificata.

diff --git a/tasks/todo.md b/tasks/todo.md
@@ -12,11 +12,11 @@
 - [x] Pubblicazione: repo/release/Pages e download con hash identico; vedi docs/RELEASE-VERIFICATION.md.
 
 ## rc.2 — revisione richiesta dall'utente
-- [ ] Audit e baseline: riproduzioni sintetiche dei difetti, piano e prompt salvati.
-- [ ] Discovery: elenco variabile, heartbeat metadati, diagnostica, ABI e test.
-- [ ] Copia: errori isolati non bloccano i successivi; pendenti e zero falsi successi.
-- [ ] Recupero: debiti storici visibili, verifica finale inventario e regressioni crash.
-- [ ] Sessione: retry automatici limitati, cancellazione immediata, nessun cambio telefono.
-- [ ] UI: diagnostica, DPI e avanzamento, cartella ricordata, versione visibile.
+- [x] Audit e baseline: riproduzioni sintetiche dei difetti, piano e prompt salvati.
+- [x] Discovery: elenco variabile, heartbeat metadati, diagnostica, ABI e test.
+- [x] Copia: errori isolati non bloccano i successivi; pendenti e zero falsi successi.
+- [x] Recupero: debiti storici visibili, verifica finale inventario e regressioni crash.
+- [x] Sessione: retry automatici limitati, cancellazione immediata, nessun cambio telefono.
+- [x] UI: diagnostica, DPI e avanzamento, cartella ricordata, versione visibile.
 - [ ] Verifica: suite estesa, stress, mutazione, revisione e smoke pacchetto senza USB.
 - [ ] Release: codice/tag coerenti, ZIP, checksum, sito e download verificato.
